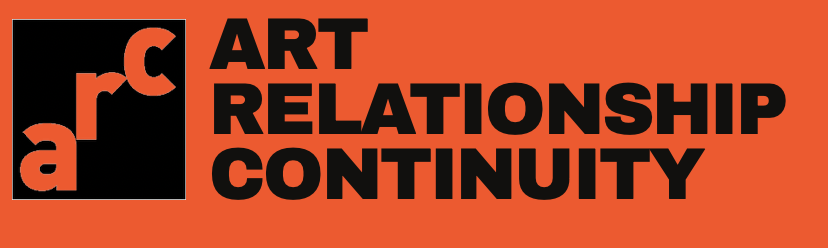
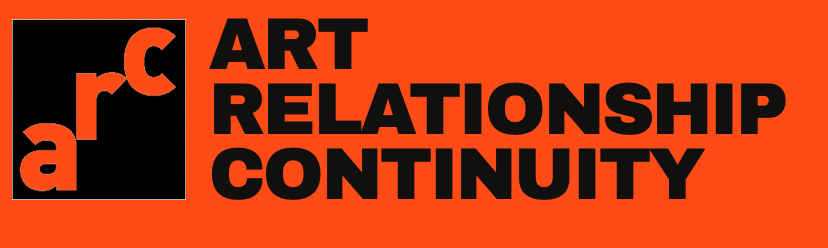
arc button same height as the others; seamless orange
Claude-Session: https://claude.ai/code/session_017JpLw9QEYLg1A3ZrD3fJmo

diff --git a/public/index.html b/public/index.html
@@ -55,8 +55,8 @@
   .arc span:nth-child(2){top:-.28em}
   .arc span:nth-child(3){top:-.56em}
   .links .arc{font-size:17px}
-  .links a.banner{grid-column:1/-1;padding:0;overflow:hidden;background:#ec5a30;border-color:#ec5a30;display:block}
-  .links a.banner img{display:block;width:100%;height:auto}
+  .links a.banner{grid-column:1/-1;padding:9px 16px;background:#ff4b16;border-color:#ff4b16;justify-content:flex-start}
+  .links a.banner img{display:block;height:55px;width:auto}
   footer{padding:18px clamp(16px,5vw,56px);color:var(--muted);font-size:13px;display:flex;justify-content:space-between;
        gap:12px;flex-wrap:wrap;border-top:1px solid var(--line)}
   footer a{color:inherit}
